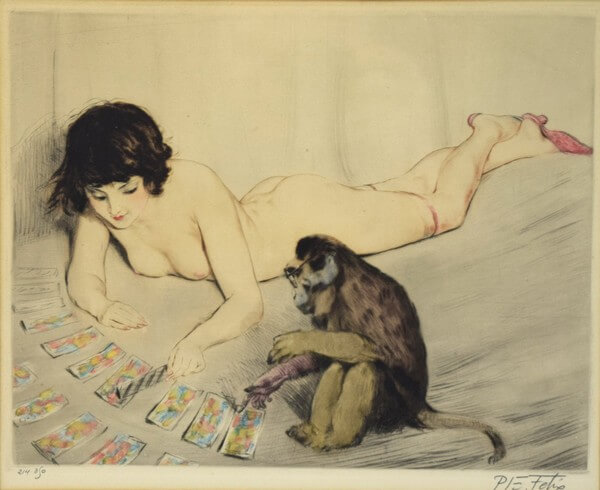
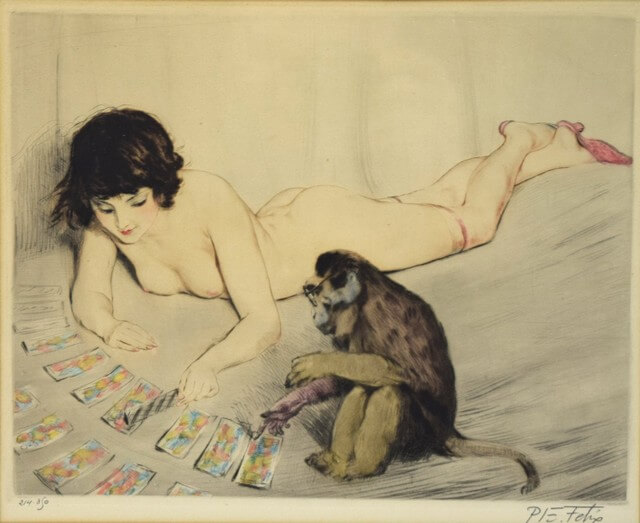
Màj illustrations des billets sur solitaire.

diff --git a/_posts/2019-03-23-solitaire-feuille-route-javascript.md b/_posts/2019-03-23-solitaire-feuille-route-javascript.md
@@ -9,7 +9,7 @@ J'ai un peu beaucoup délaissé ce blog parce que j'ai lancé un site de jeux de
 [Solitaire-Play](https://www.solitaire-play.com/), qui au final m'occupe et m'inspire plus que
 la rédaction ou la traduction de billets...
 
-![Paul Emile Félix - Le Solitaire](/public/2019/solitaire.jpg)
+![joueuse-solitaire](/public/2019/solitaire.jpg "Paul Emile Félix - Le Solitaire")
 
 Comme mon site commence à avoir pas mal de jeux, il faut que je réfléchisse à ce qui est
 faisable ou pas, pour éviter que cela parte dans tous les sens et deviennent moins amusant.

diff --git a/_posts/2019-03-27-solitaire-passer-jquery-vanilla-js.md b/_posts/2019-03-27-solitaire-passer-jquery-vanilla-js.md
@@ -13,7 +13,7 @@ solitaires et aux évolutions que je souhaite y apporter :
 3. [Améliorer FreeCell]({% post_url 2019-04-01-solitaire-ameliorer-freecell %})
 4. Drag & drop sans jQuery UI
 
-![Vanille Bourbon - La Réunion](/public/2019/vanille.jpg)
+![vanille-bourbon](/public/2019/vanille.jpg "Vanille Bourbon - La Réunion")
 
 Au départ, j'ai utilisé [jQuery](https://jquery.com/) (et
 [jQuery UI](https://jqueryui.com/)) parce que c'était encore ce qui se faisait
